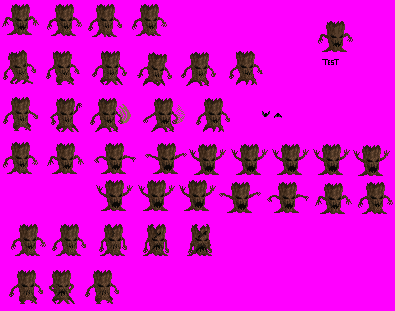
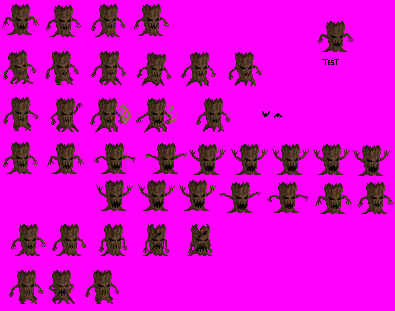
Tree is in the game. Functional and throws sticks.

diff --git a/src/Enemies/TreeEnemy.java b/src/Enemies/TreeEnemy.java
@@ -41,7 +41,7 @@ public class TreeEnemy extends Enemy {
     protected TreeState previoustreeState;
 
     public TreeEnemy(Point startLocation, Point endLocation, Direction facingDirection) {
-        super(startLocation.x, startLocation.y, new SpriteSheet(ImageLoader.load("TreeEnemy.png"), 42, 45), "WALK_RIGHT");
+        super(startLocation.x, startLocation.y, new SpriteSheet(ImageLoader.load("TreeEnemy.png"), 44, 45), "WALK_RIGHT");
         this.startLocation = startLocation;
         this.endLocation = endLocation;
         this.startFacingDirection = facingDirection;
@@ -104,11 +104,11 @@ public class TreeEnemy extends Enemy {
             }
         }
 
-        // if tree is waiting to shoot, it first turns red for a set number of frames
-        // after this waiting period is over, the fireball is actually shot out
+        // if tree is waiting to shoot, it does its animations then throws the stick
+        // after this waiting period is over, the stick is thrown
         if (treeState == TreeState.SHOOT_WAIT) {
             if (previoustreeState == TreeState.WALK) {
-                shootTimer = 65;
+                shootTimer = 40;
                 currentAnimationName = facingDirection == Direction.RIGHT ? "SHOOT_RIGHT" : "SHOOT_LEFT";
             } else if (shootTimer == 0) {
                 treeState = TreeState.SHOOT;
@@ -118,28 +118,28 @@ public class TreeEnemy extends Enemy {
             }
         }
 
-        // this is for actually having the dinosaur spit out the fireball
+        // this is for actually having the tree throw the stick
         if (treeState == TreeState.SHOOT) {
-            // define where fireball will spawn on map (x location) relative to dinosaur enemy's location
+            // define where stick will spawn on map (x location) relative to tree's location            
             // and define its movement speed
-            int fireballX;
+            int stickX;
             float movementSpeed;
             if (facingDirection == Direction.RIGHT) {
-                fireballX = Math.round(getX()) + getWidth();
+                stickX = Math.round(getX()) + getWidth() - 30;
                 movementSpeed = 1.5f;
             } else {
-                fireballX = Math.round(getX() - 21);
+                stickX = Math.round(getX() - 35);
                 movementSpeed = -1.5f;
             }
 
-            // define where fireball will spawn on the map (y location) relative to dinosaur enemy's location
-            int fireballY = Math.round(getY()) + 4;
+            // define where fireball will spawn on the map (y location) relative to tree's location
+            int stickY = Math.round(getY()) - 16;
 
-            // create Fireball enemy
-            Fireball fireball = new Fireball(new Point(fireballX, fireballY), movementSpeed, 60);
+            // create stick enemy
+            Stick stick = new Stick(new Point(stickX, stickY), movementSpeed);
 
             // add fireball enemy to the map for it to spawn in the level
-            map.addEnemy(fireball);
+            map.addEnemy(stick);
 
             // change dinosaur back to its WALK state after shooting, reset shootTimer to wait a certain number of frames before shooting again
             treeState = TreeState.WALK;
@@ -188,41 +188,123 @@ public class TreeEnemy extends Enemy {
         float scale = 1.8f;
         return new HashMap<String, Frame[]>() {{
             put("WALK_LEFT", new Frame[]{
-                    new FrameBuilder(spriteSheet.getSprite(0, 0), 14)
+                    new FrameBuilder(spriteSheet.getSprite(0, 2), 14)
                             .withScale(scale)
-                            .withBounds(3, 4, 35, 41)
+                            .withImageEffect(ImageEffect.FLIP_HORIZONTAL)
+                            .withBounds(1, 3, 35, 30)
                             .build(),
-                    new FrameBuilder(spriteSheet.getSprite(0, 1), 14)
+                    new FrameBuilder(spriteSheet.getSprite(1, 0), 14)
                             .withScale(scale)
-                            .withBounds(3, 4, 35, 41)
+                            .withImageEffect(ImageEffect.FLIP_HORIZONTAL)
+                            .withBounds(1, 3, 35, 30)
+                            .build(),
+                    new FrameBuilder(spriteSheet.getSprite(1, 1), 14)
+                            .withScale(scale)
+                            .withImageEffect(ImageEffect.FLIP_HORIZONTAL)
+                            .withBounds(1, 3, 35, 30)
+                            .build(),
+                    new FrameBuilder(spriteSheet.getSprite(1, 2), 14)
+                            .withScale(scale)
+                            .withImageEffect(ImageEffect.FLIP_HORIZONTAL)
+                            .withBounds(1, 3, 35, 30)
+                            .build(),
+                    new FrameBuilder(spriteSheet.getSprite(1, 3), 14)
+                            .withScale(scale)
+                            .withImageEffect(ImageEffect.FLIP_HORIZONTAL)
+                            .withBounds(1, 3, 35, 30)
+                            .build(),
+                    new FrameBuilder(spriteSheet.getSprite(1, 4), 14)
+                            .withScale(scale)
+                            .withImageEffect(ImageEffect.FLIP_HORIZONTAL)
+                            .withBounds(1, 3, 35, 30)
+                            .build(),
+                    new FrameBuilder(spriteSheet.getSprite(1, 5), 14)
+                            .withScale(scale)
+                            .withImageEffect(ImageEffect.FLIP_HORIZONTAL)
+                            .withBounds(1, 3, 35, 30)
                             .build()
+                    
             });
 
             put("WALK_RIGHT", new Frame[]{
-                    new FrameBuilder(spriteSheet.getSprite(0, 0), 14)
+                    new FrameBuilder(spriteSheet.getSprite(0, 2), 14)
                             .withScale(scale)
-                            .withImageEffect(ImageEffect.FLIP_HORIZONTAL)
-                            .withBounds(3, 4, 35, 41)
+                            .withBounds(1, 3, 35, 30)
                             .build(),
-                    new FrameBuilder(spriteSheet.getSprite(0, 1), 14)
+                    new FrameBuilder(spriteSheet.getSprite(1, 0), 14)
                             .withScale(scale)
-                            .withImageEffect(ImageEffect.FLIP_HORIZONTAL)
-                            .withBounds(3, 4, 35, 41)
+                            .withBounds(1, 3, 35, 30)
+                            .build(),
+                    new FrameBuilder(spriteSheet.getSprite(1, 1), 14)
+                            .withScale(scale)
+                            .withBounds(1, 3, 35, 30)
+                            .build(),
+                    new FrameBuilder(spriteSheet.getSprite(1, 2), 14)
+                            .withScale(scale)
+                            .withBounds(1, 3, 35, 30)
+                            .build(),
+                    new FrameBuilder(spriteSheet.getSprite(1, 3), 14)
+                            .withScale(scale)
+                            .withBounds(1, 3, 35, 30)
+                            .build(),
+                    new FrameBuilder(spriteSheet.getSprite(1, 4), 14)
+                            .withScale(scale)
+                            .withBounds(1, 3, 35, 30)
+                            .build(),
+                    new FrameBuilder(spriteSheet.getSprite(1, 5), 14)
+                            .withScale(scale)
+                            .withBounds(1, 3, 35, 30)
                             .build()
             });
 
             put("SHOOT_LEFT", new Frame[]{
-                    new FrameBuilder(spriteSheet.getSprite(1, 0))
+                    new FrameBuilder(spriteSheet.getSprite(2, 0), 15)
                             .withScale(scale)
-                            .withBounds(3, 4, 35, 41)
+                            .withImageEffect(ImageEffect.FLIP_HORIZONTAL)
+                            .withBounds(1, 3, 35, 30)
                             .build(),
+                    new FrameBuilder(spriteSheet.getSprite(2, 1), 15)
+                            .withScale(scale)
+                            .withImageEffect(ImageEffect.FLIP_HORIZONTAL)
+                            .withBounds(1, 3, 35, 30)
+                            .build(),
+                    new FrameBuilder(spriteSheet.getSprite(2, 2), 15)
+                            .withScale(scale)
+                            .withImageEffect(ImageEffect.FLIP_HORIZONTAL)
+                            .withBounds(1, 3, 35, 30)
+                            .build(),
+                    new FrameBuilder(spriteSheet.getSprite(2, 3), 15)
+                            .withScale(scale)
+                            .withImageEffect(ImageEffect.FLIP_HORIZONTAL)
+                            .withBounds(1, 3, 35, 30)
+                            .build(),
+                    new FrameBuilder(spriteSheet.getSprite(2, 4), 15)
+                            .withScale(scale)
+                            .withImageEffect(ImageEffect.FLIP_HORIZONTAL)
+                            .withBounds(1, 3, 35, 30)
+                            .build()
             });
 
             put("SHOOT_RIGHT", new Frame[]{
-                    new FrameBuilder(spriteSheet.getSprite(1, 0))
+                    new FrameBuilder(spriteSheet.getSprite(2, 0), 15)
                             .withScale(scale)
-                            .withImageEffect(ImageEffect.FLIP_HORIZONTAL)
-                            .withBounds(3, 4, 35, 41)
+                            .withBounds(1, 3, 35, 30)
+                            .build(),
+                    new FrameBuilder(spriteSheet.getSprite(2, 1), 15)
+                            .withScale(scale)
+                            .withBounds(1, 3, 35, 30)
+                            .build(),
+                    new FrameBuilder(spriteSheet.getSprite(2, 2), 15)
+                            .withScale(scale)
+                            .withBounds(1, 3, 35, 30)
+                            .build(),
+                    new FrameBuilder(spriteSheet.getSprite(2, 3), 15)
+                            .withScale(scale)
+                            .withBounds(1, 3, 35, 30)
+                            .build(),
+                    new FrameBuilder(spriteSheet.getSprite(2, 4), 15)
+                            .withScale(scale)
+                            .withBounds(1, 3, 35, 30)
                             .build(),
             });
         }};

diff --git a/src/Enemies/Stick.java b/src/Enemies/Stick.java
@@ -18,47 +18,42 @@ import java.util.HashMap;
 // This class is for the fireball enemy that the DinosaurEnemy class shoots out
 // it will travel in a straight line (x axis) for a set time before disappearing
 // it will disappear early if it collides with a solid map tile
-public class Fireball extends Enemy {
+public class Stick extends Enemy {
     private float movementSpeed;
-    private int existenceFrames;
 
-    public Fireball(Point location, float movementSpeed, int existenceFrames) {
-        super(location.x, location.y, new SpriteSheet(ImageLoader.load("Fireball.png"), 7, 7), "DEFAULT");
+    public Stick(Point location, float movementSpeed) {
+        super(location.x, location.y, new SpriteSheet(ImageLoader.load("TreeStick.png"), 40, 40), "DEFAULT");
         this.movementSpeed = movementSpeed;
-
-        // how long the fireball will exist for before disappearing
-        this.existenceFrames = existenceFrames;
 
         initialize();
     }
 
     @Override
     public void initialize() {
-        // Add the fireball as an enemy to listen for elemental abilities
+        // Add the stick as an enemy to listen for elemental abilities
         ElementalAbilityListenerManager.addEnemyListener(this);
         super.initialize();
     }
 
+    //this.mapEntityStatus = MapEntityStatus.REMOVED;
+
     @Override
     public void update(Player player) {
-        // if timer is up, set map entity status to REMOVED
-        // the camera class will see this next frame and remove it permanently from the map
-        if (existenceFrames == 0) {
-            this.mapEntityStatus = MapEntityStatus.REMOVED;
-        } else {
-            // move fireball forward
-            moveXHandleCollision(movementSpeed);
-            super.update(player);
-        }
-        // if it gets hit by a wave it gets killed
-        if (activeWave != null) {
-            if (intersects(activeWave)) {
+        // move stick forward
+        moveXHandleCollision(movementSpeed);
+        super.update(player);
+        // if it gets hit by a fireball it gets killed
+        if (activeFireball != null) {
+            if (intersects(activeFireball)) {
                 enemyAttacked(this);
-                ElementalAbilityListenerManager.waveKilledEnemy();
-                Player.setCooldownCounter(20);
+
+                // For now I don't want the fireball to despawn when killing a stick
+                //ElementalAbilityListenerManager.fireballKilledEnemy();
+
+                // For now I don't want it to reset the cooldown of fireball
+                 // Player.setCooldownCounter(20);
             }
         }
-        existenceFrames--;
     }
 
     @Override
@@ -81,8 +76,8 @@ public class Fireball extends Enemy {
         return new HashMap<String, Frame[]>() {{
             put("DEFAULT", new Frame[]{
                     new FrameBuilder(spriteSheet.getSprite(0, 0))
-                            .withScale(3)
-                            .withBounds(1, 1, 5, 5)
+                            .withScale(2)
+                            .withBounds(13, 13, 14, 15)
                             .build()
             });
         }};

diff --git a/src/GameObject/GameObject.java b/src/GameObject/GameObject.java
@@ -9,6 +9,9 @@ import Utils.MathUtils;
 import java.awt.*;
 import java.util.HashMap;
 
+import Enemies.Stick;
+import Enemies.TreeEnemy;
+
 /*
 	The all important GameObject class is what every "entity" used in this game should be based off of
 	It encapsulates all the other class logic in the GameObject package to be a "one stop shop" for all entity needs
@@ -328,11 +331,11 @@ public class GameObject extends AnimatedSprite {
                     currentFrame.getImageEffect());
 
             // Uncomment this to draw player's bounds to screen -- useful for debugging
-            /*
+            // Change this to the name of the class that you want to see bounds for
             if (this instanceof Player) {
                 drawBounds(graphicsHandler, new Color(255, 0, 0, 100));
             }
-            */
+            
         } else {
             super.draw(graphicsHandler);
         }

diff --git a/src/Maps/EarthMap.java b/src/Maps/EarthMap.java
@@ -50,7 +50,7 @@ public class EarthMap extends Map {
         DinosaurEnemy dinosaurEnemy4 = new DinosaurEnemy(getMapTile(48, 13).getLocation().addY(2), getMapTile(55, 13).getLocation().addY(2), Direction.LEFT);
         enemies.add(dinosaurEnemy4);
 
-        TreeEnemy treeEnemy = new TreeEnemy(getMapTile(11, 3).getLocation().addY(-12), getMapTile(13, 3).getLocation().addY(-12), Direction.LEFT);
+        TreeEnemy treeEnemy = new TreeEnemy(getMapTile(11, 3).getLocation().addY(-12), getMapTile(15, 3).getLocation().addY(-12), Direction.LEFT);
         enemies.add(treeEnemy);
 
 
